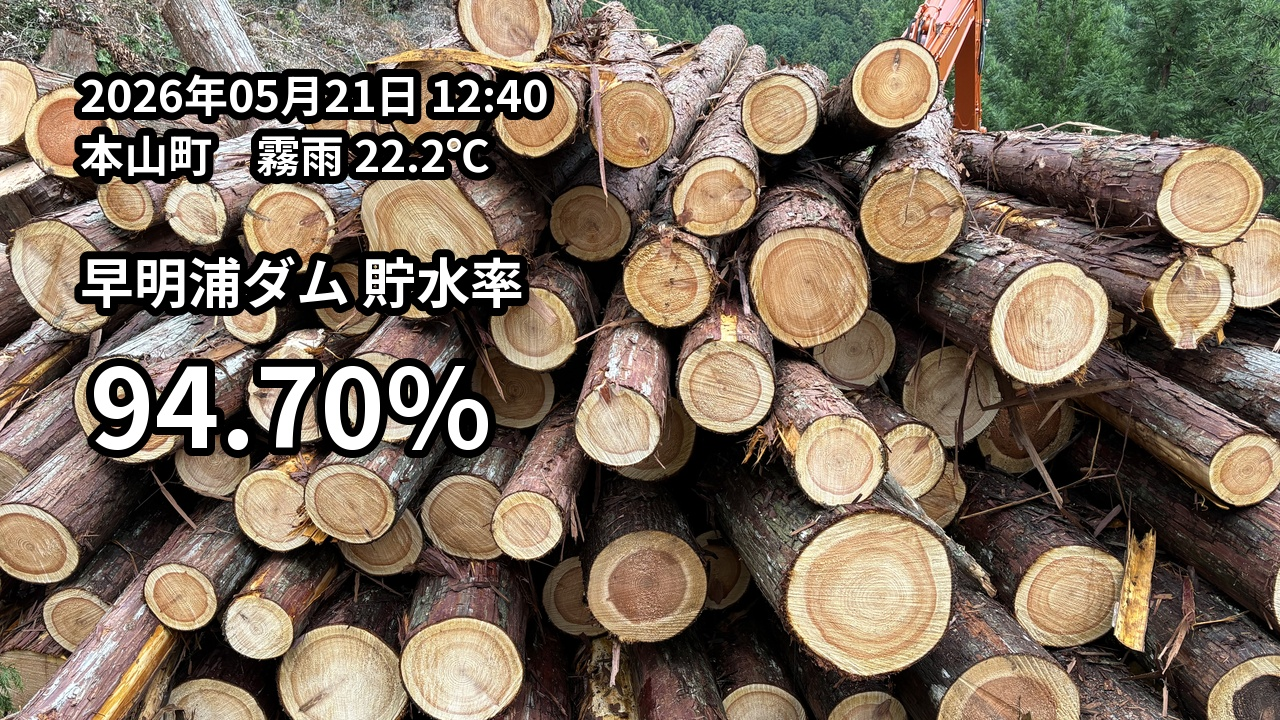
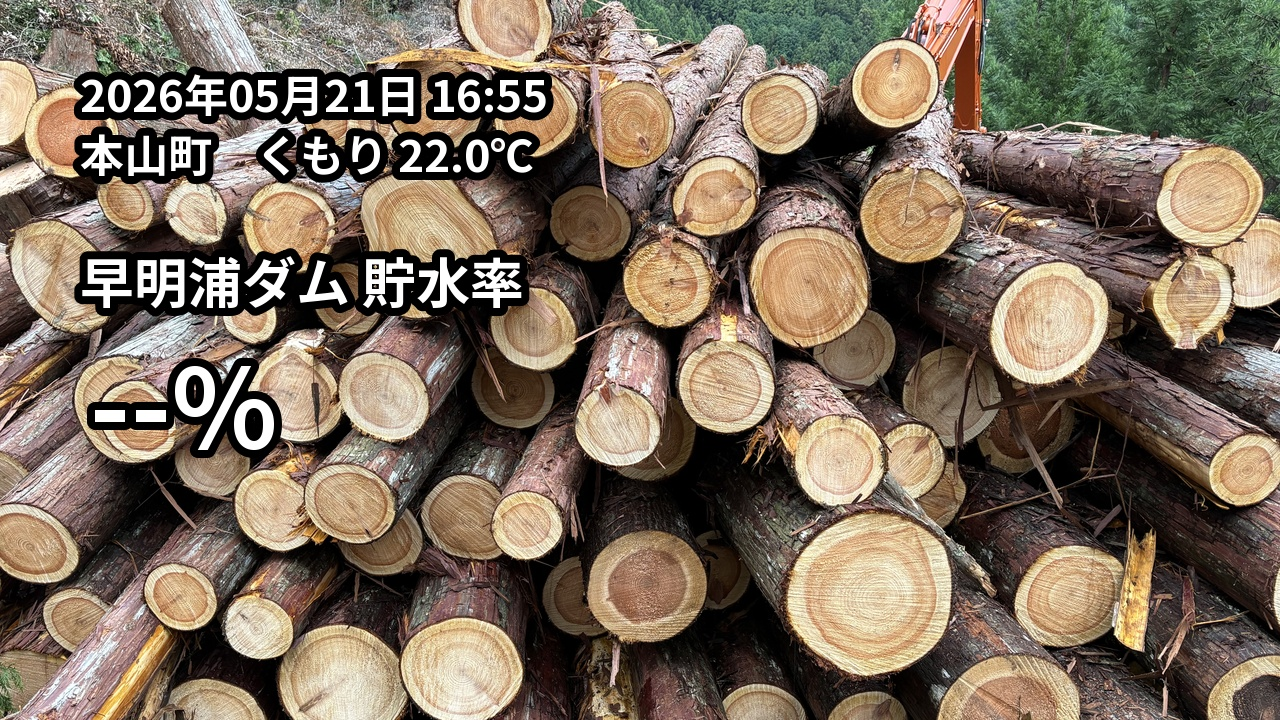
Update daily image

Changed region(s): [[0.0625, 0.4889, 0.4062, 0.6417], [0.1875, 0.0917, 0.4375, 0.275]]

diff --git a/index.html b/index.html
@@ -10,6 +10,6 @@
   </style>
 </head>
 <body>
-  <img src="result.jpg?v=202605211240" alt="早明浦ダム 貯水率" />
+  <img src="result.jpg?v=202605211655" alt="早明浦ダム 貯水率" />
 </body>
 </html>
